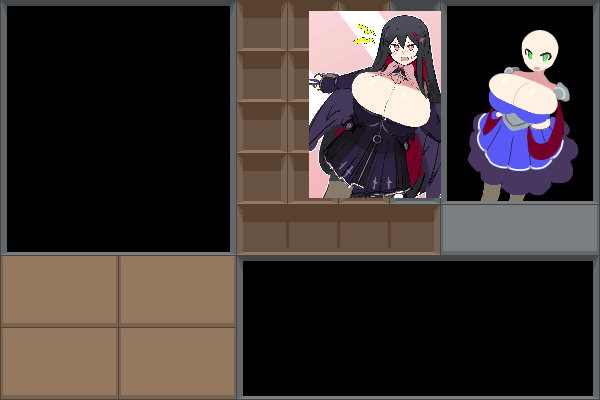
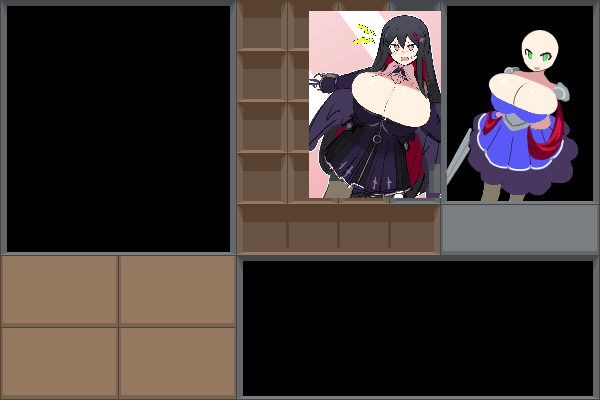
Continue work on player character portrait

Changed region(s): [[0.69, 0.33, 0.81, 0.48], [0.87, 0.27, 0.96, 0.39], [0.81, 0.24, 0.84, 0.33]]

diff --git a/README.md b/README.md
@@ -1,1 +1,3 @@
 Font is [Inconsolata](https://levien.com/type/myfonts/inconsolata.html)
+
+Art with inspiration from [@SeinSol](https://x.com/SeinSol/)
